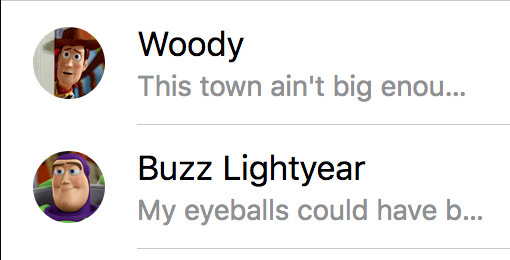
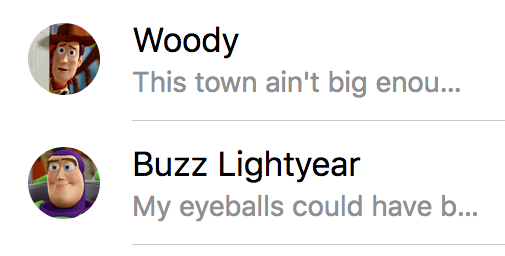
Added clarification on extra lists challenges

diff --git a/challenges/lists.md b/challenges/lists.md
@@ -30,7 +30,7 @@ The final app should resemble the following:
 - Use the [react-native-image-progress](https://github.com/oblador/react-native-image-progress) module to show a loading spinner while the contact's image is loading.
 - Modify the FlatList item to include the contact's avatar and company. The company should be displayed below the name, with a grey colour. The avatar should be to the left of them both, and should be enclosed in a circle. For example:
 
-<img src="screenshots/avatar-list.png" height="200">
+<img src="screenshots/avatar-list.png" height="100">
 
 - Add a chevron to the right hand side of the list item, but only on iOS:
   - Use the [expo vector icons](https://docs.expo.io/versions/latest/guides/icons.html#expovector-icons) package, and search for the appropriate icon to use.
